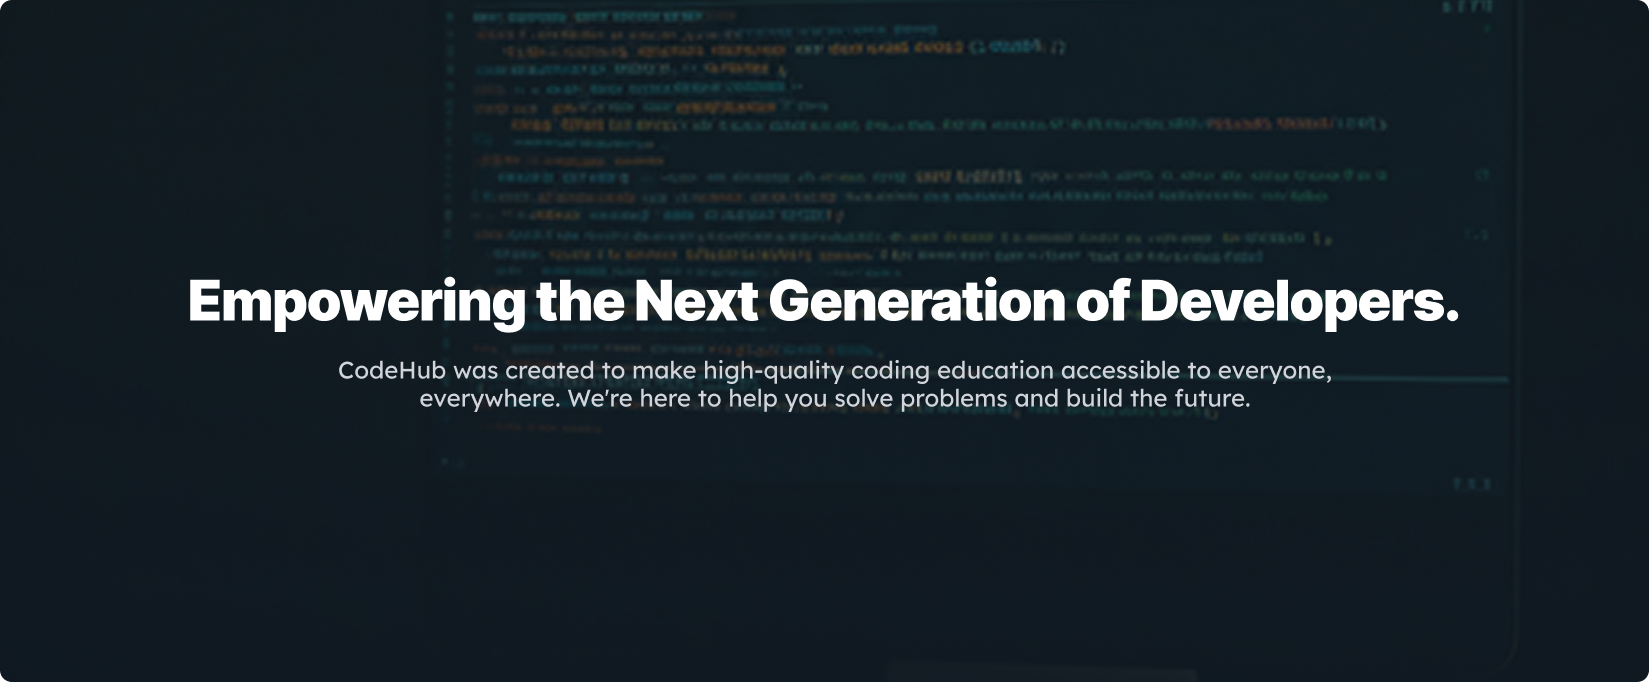
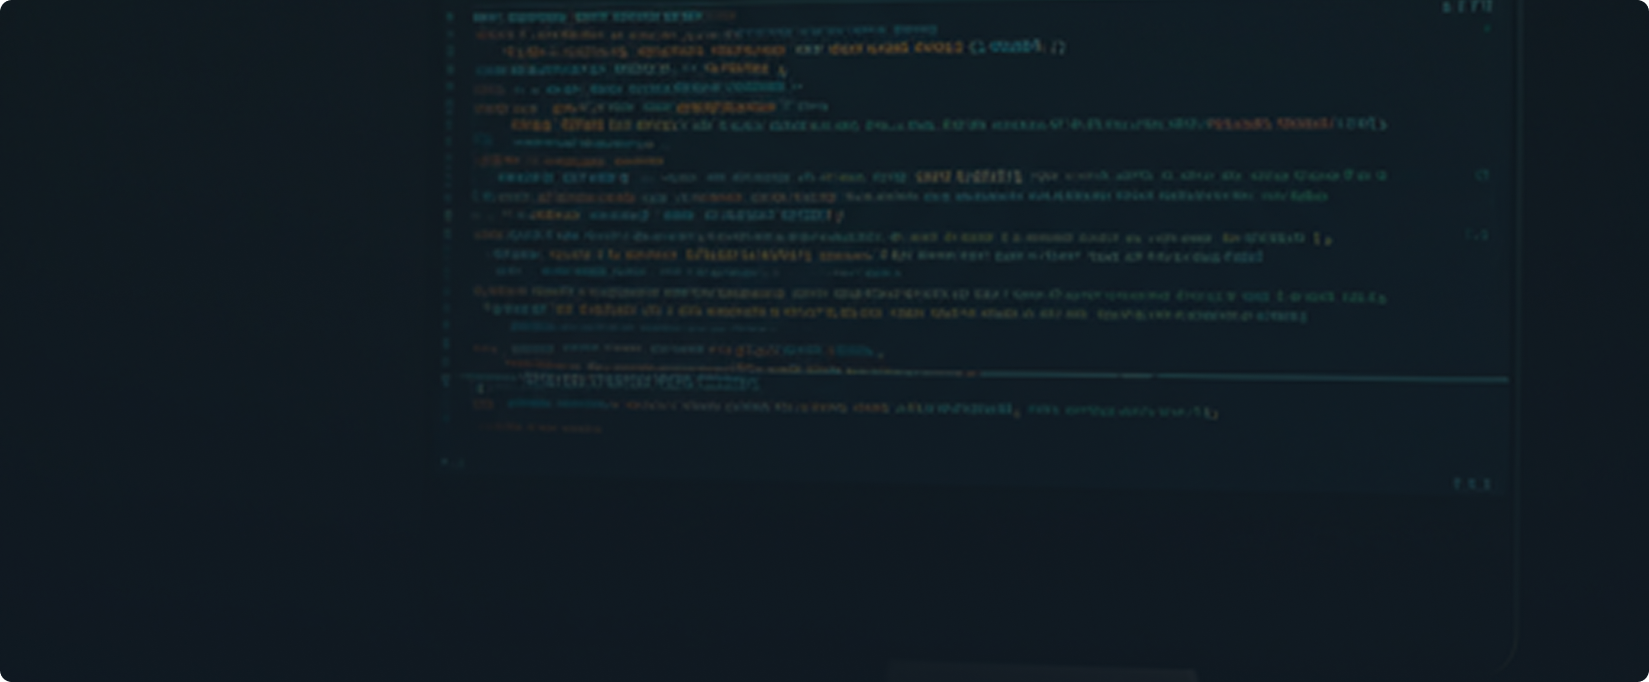
fixing aboutpage design

Changed region(s): [[0.0928, 0.4003, 0.8969, 0.4927], [0.1856, 0.5235, 0.8041, 0.6158]]

diff --git a/src/pages/AboutPage/AboutPage.tsx b/src/pages/AboutPage/AboutPage.tsx
@@ -1,3 +1,10 @@
+import { BsStars } from "react-icons/bs";
+import { TbCode } from "react-icons/tb";
+import { BiBrain } from "react-icons/bi";
+import { BiBookOpen } from "react-icons/bi";
+import { AiOutlineEye } from "react-icons/ai";
+import { BsRocketTakeoff } from "react-icons/bs";
+import { BsFillRocketTakeoffFill } from "react-icons/bs";
 import React from "react";
 import { FaTwitter, FaLinkedin } from "react-icons/fa";
 
@@ -5,31 +12,43 @@ const AboutPage: React.FC = () => {
   return (
     <div className="bg-gray-50 text-gray-800">
       {/* Hero Section */}
-      <section className="bg-gray-900 text-white text-center py-20 px-4">
-        <h1 className="text-3xl md:text-5xl font-bold mb-4">
-          Empowering the Next Generation of Developers.
-        </h1>
-        <p className="text-gray-300 max-w-3xl mx-auto">
-          CodeHub was created to make high-quality coding education accessible
-          to everyone, everywhere. We're here to help you solve today’s problems
-          and build the future.
-        </p>
+      <section
+        className="text-white text-center py-20 px-4 bg-cover bg-center bg-no-repeat relative"
+        style={{ backgroundImage: "url('/assets/aboutPage/aboutbg.png')" }}
+      >
+        <div className="absolute inset-0 bg-black/50"></div>
+        <div className="relative z-10">
+          <h1 className="text-3xl md:text-5xl font-bold mb-4">
+            Empowering the Next Generation of Developers.
+          </h1>
+          <p className="text-gray-300 max-w-3xl mx-auto">
+            CodeHub was created to make high-quality coding education accessible
+            to everyone, everywhere. We're here to help you solve today's
+            problems and build the future.
+          </p>
+        </div>
       </section>
 
       {/* Mission & Vision */}
       <section className="py-16 px-6 text-center">
-        <h2 className="text-2xl md:text-3xl font-semibold mb-10">
+        <h2 className="text-2xl md:text-3xl font-semibold mb-10 ">
           Our Mission & Vision
         </h2>
         <div className="grid md:grid-cols-2 gap-8 max-w-5xl mx-auto">
-          <div className="bg-white rounded-2xl shadow p-6">
+          <div className="bg-white rounded-2xl shadow p-6 text-left">
+            <div className="inline-flex items-center justify-center w-16 h-16 bg-blue-50 rounded-2xl">
+              <BsRocketTakeoff className="w-8 h-8 text-blue-600" />
+            </div>
             <h3 className="text-xl font-bold mb-3">Our Mission</h3>
             <p>
               We aim to make high-quality coding education accessible to
               everyone, everywhere.
             </p>
           </div>
-          <div className="bg-white rounded-2xl shadow p-6">
+          <div className="bg-white rounded-2xl shadow p-6 text-left">
+            <div className="inline-flex items-center justify-center w-16 h-16 bg-blue-50 rounded-2xl">
+              <AiOutlineEye className="w-8 h-8 text-blue-600" />
+            </div>
             <h3 className="text-xl font-bold mb-3">Our Vision</h3>
             <p>
               To build the world’s most supportive and innovative community for
@@ -46,6 +65,9 @@ const AboutPage: React.FC = () => {
         </h2>
         <div className="grid md:grid-cols-4 gap-8 max-w-6xl mx-auto">
           <div className="p-6 bg-gray-50 rounded-2xl shadow">
+            <div className="inline-flex items-center justify-center w-16 h-16 bg-blue-50 rounded-2xl">
+              <BiBookOpen className="w-8 h-8 text-blue-600" />
+            </div>
             <h3 className="text-lg font-bold mb-2">Comprehensive Tutorials</h3>
             <p>
               Learn Python, JavaScript, Java, C++, and more through step-by-step
@@ -53,6 +75,9 @@ const AboutPage: React.FC = () => {
             </p>
           </div>
           <div className="p-6 bg-gray-50 rounded-2xl shadow">
+            <div className="inline-flex items-center justify-center w-16 h-16 bg-purple-50 rounded-2xl">
+              <BiBrain className="w-8 h-8 text-purple-600" />
+            </div>
             <h3 className="text-lg font-bold mb-2">Global Library</h3>
             <p>
               Master data structures, algorithms, and system design with curated
@@ -60,6 +85,9 @@ const AboutPage: React.FC = () => {
             </p>
           </div>
           <div className="p-6 bg-gray-50 rounded-2xl shadow">
+            <div className="inline-flex items-center justify-center w-16 h-16 bg-green-50 rounded-2xl">
+              <TbCode className="w-8 h-8 text-green-600" />
+            </div>
             <h3 className="text-lg font-bold mb-2">Interactive Code Labs</h3>
             <p>
               Write, run, and test your code in real time with an interactive
@@ -67,6 +95,9 @@ const AboutPage: React.FC = () => {
             </p>
           </div>
           <div className="p-6 bg-gray-50 rounded-2xl shadow">
+            <div className="inline-flex items-center justify-center w-16 h-16 bg-orange-50 rounded-2xl">
+              <BsStars className="w-8 h-8 text-orange-600" />
+            </div>
             <h3 className="text-lg font-bold mb-2">AI-Powered Assistance</h3>
             <p>
               Get help on your coding projects, debug errors, and accelerate
@@ -89,7 +120,7 @@ const AboutPage: React.FC = () => {
               alt="Johnathan Doe"
               className="w-24 h-24 rounded-full mx-auto mb-4"
             />
-            <h3 className="text-lg font-bold">Johnathan Doe</h3>
+            <h3 className="text-lg font-bold">Muhammad Asad Ullah Turab</h3>
             <p className="text-gray-500 mb-3">CEO & Founder</p>
             <p className="text-sm mb-4">
               Passionate about empowering developers through accessible coding
@@ -108,7 +139,7 @@ const AboutPage: React.FC = () => {
               alt="Jane Smith"
               className="w-24 h-24 rounded-full mx-auto mb-4"
             />
-            <h3 className="text-lg font-bold">Jane Smith</h3>
+            <h3 className="text-lg font-bold">Isrsr Ahmad</h3>
             <p className="text-gray-500 mb-3">CTO</p>
             <p className="text-sm mb-4">
               Leads the technical vision and architecture of our learning
@@ -127,7 +158,7 @@ const AboutPage: React.FC = () => {
               alt="Samuel Lee"
               className="w-24 h-24 rounded-full mx-auto mb-4"
             />
-            <h3 className="text-lg font-bold">Samuel Lee</h3>
+            <h3 className="text-lg font-bold">Muhammad Saad</h3>
             <p className="text-gray-500 mb-3">Head of Education</p>
             <p className="text-sm mb-4">
               Designs and curates content to help learners grow from beginner to